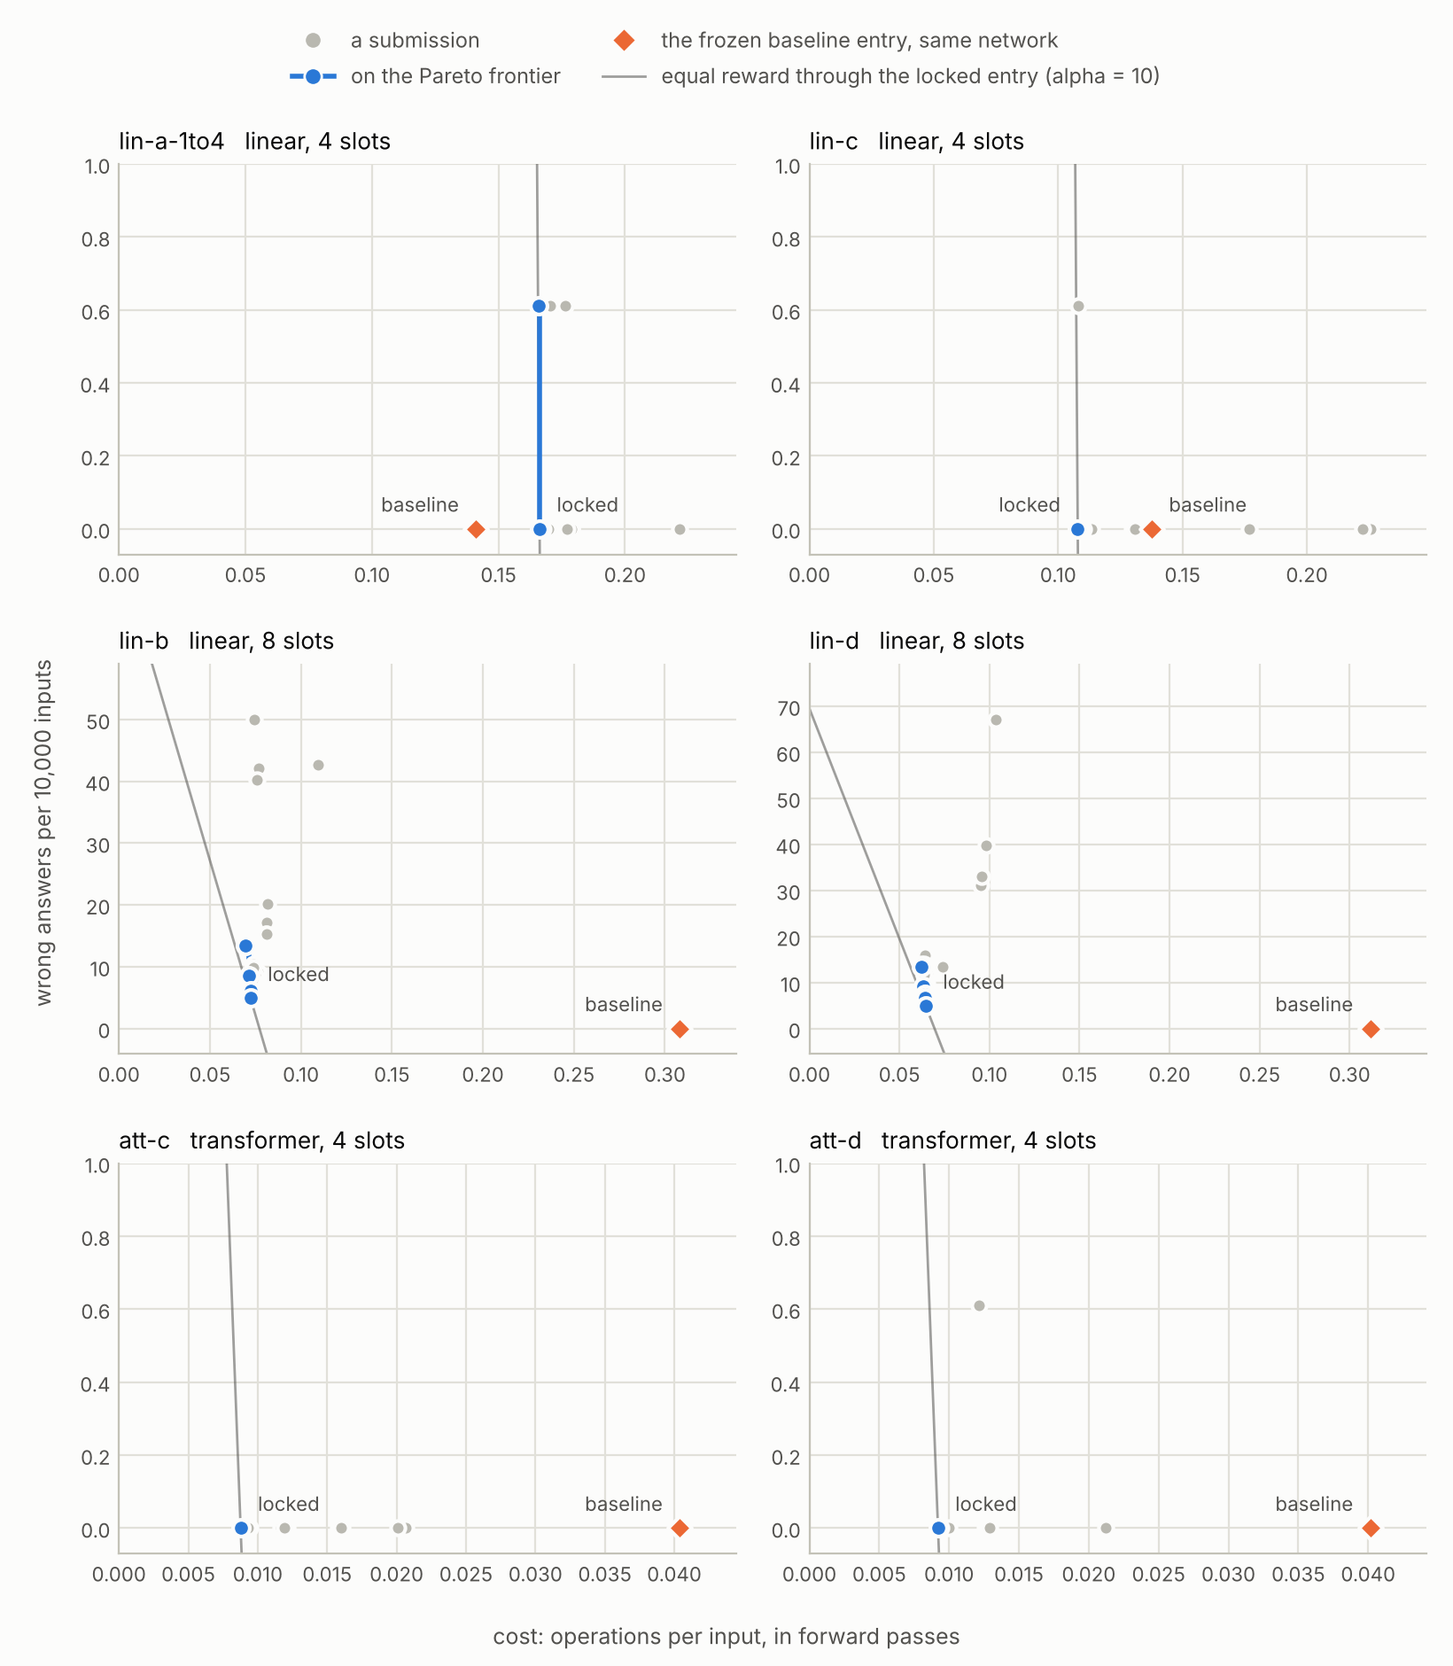
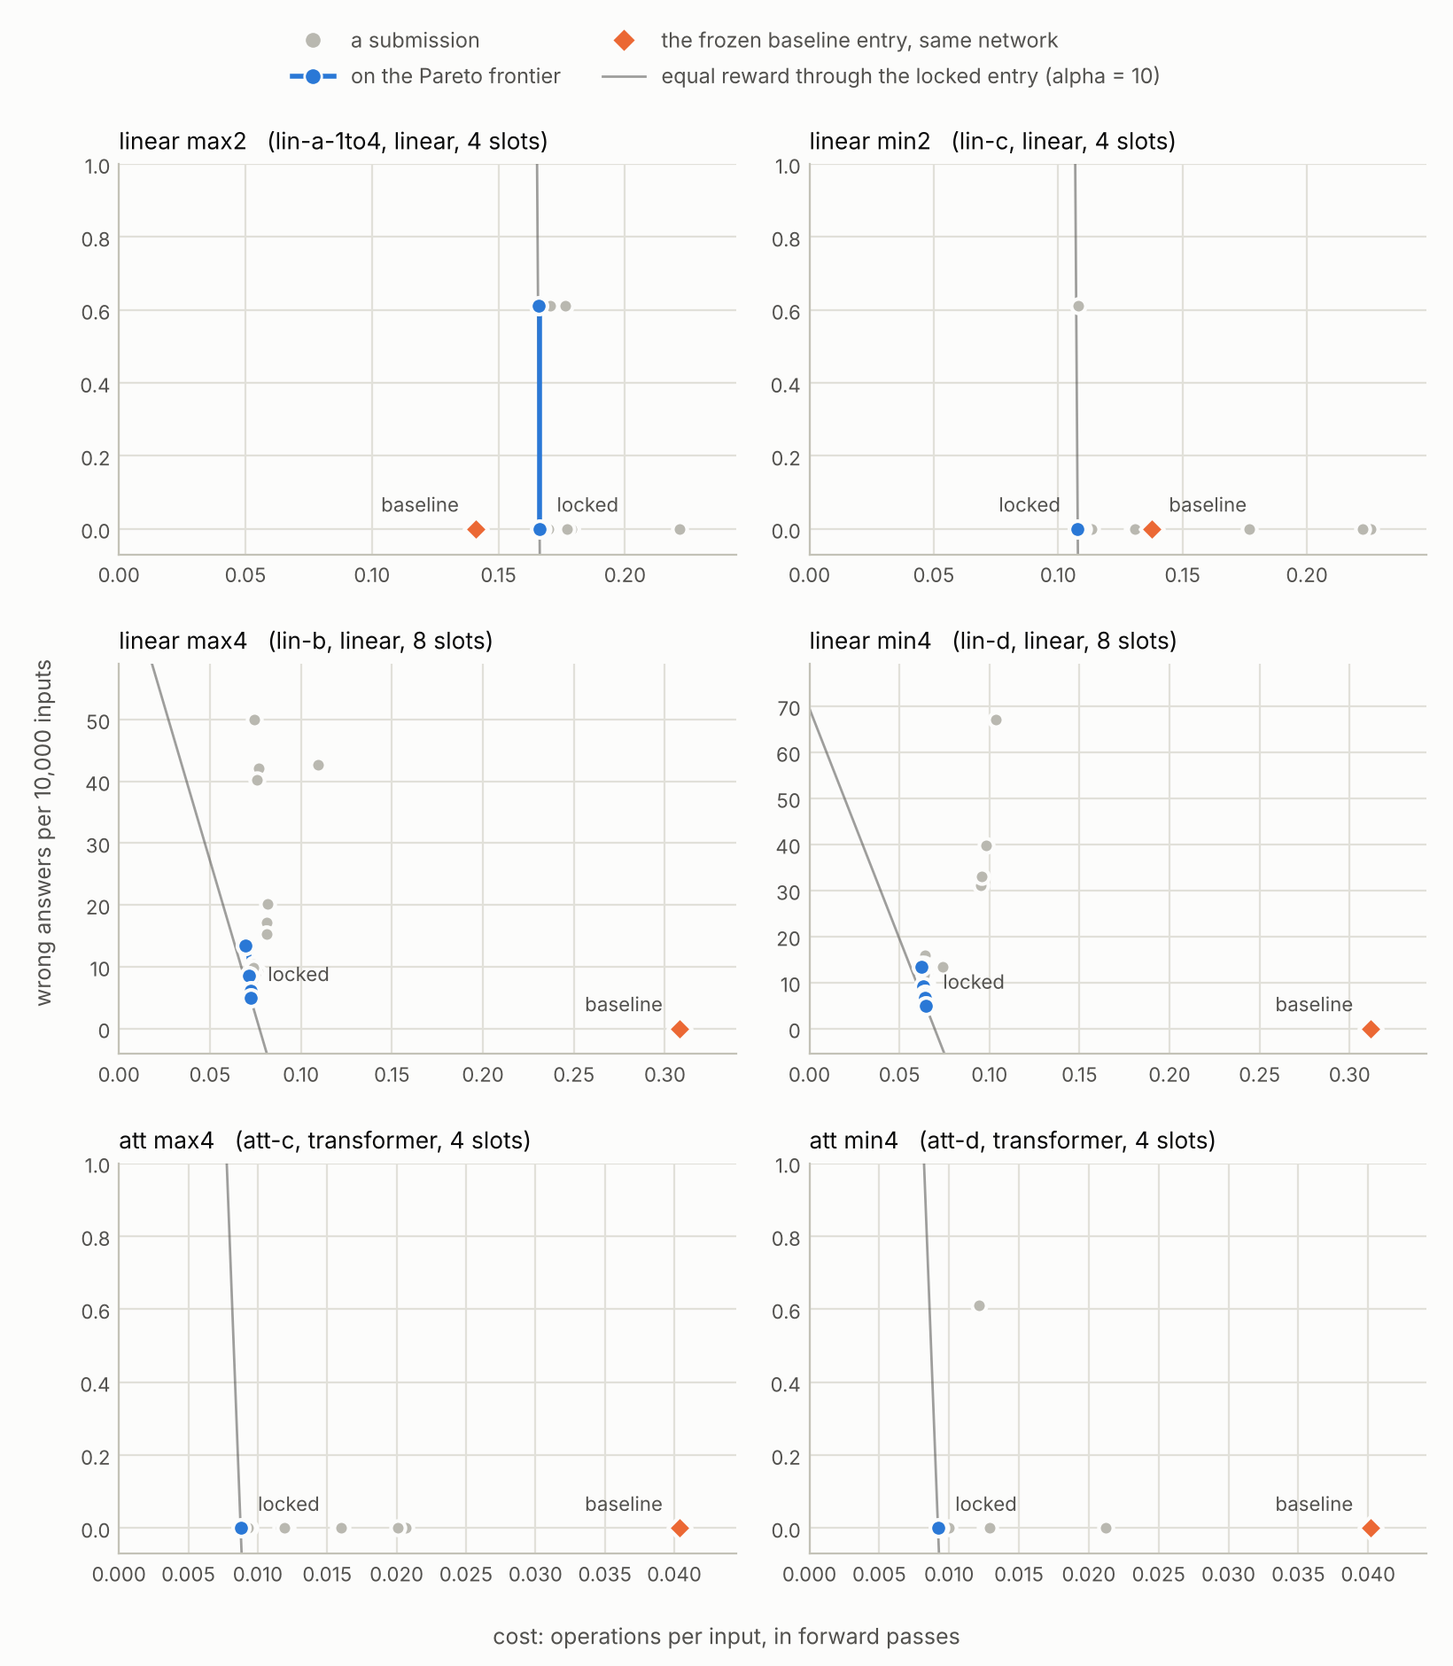
README: the models by names for people, linear max2 to att min4
The README calls the pilots' models by names that say what they do (linear max2, linear min2,
linear max4, linear min4, att max4, att min4), with their folder names in the models table; the
results, baseline and frontier sections and the layout use them. The frontier figure takes its panel
titles from the README's models table, so its script names no task. The rule in CLAUDE.md now says
the README names and describes the pilots' models for people; the agent never sees the names.

Claude-Session: https://claude.ai/code/session_0157n73R7ddwxFKEzWzgLafp

diff --git a/docs/figures/frontier.py b/docs/figures/frontier.py
@@ -34,6 +34,19 @@ SURFACE, GRID, AXIS, INK, INK2 = "#fcfcfb", "#e1e0d9", "#c3c2b7", "#0b0b0b", "#5
 OUT = Path(__file__).resolve().parent / "frontier.png"
 
 
+def names_from_readme() -> dict:
+    """{model folder: the name the README gives it}, read from the README's table of the pilots' models (the
+    README is the one place outside withheld/ that may say what a network was trained to do). A model the
+    table does not name keeps its folder's name."""
+    readme = Path(__file__).resolve().parents[2] / "README.md"
+    out = {}
+    for line in readme.read_text().splitlines() if readme.exists() else []:
+        cells = [c.strip() for c in line.strip().strip("|").split("|")]
+        if len(cells) > 2 and cells[1] in {name for _, name, _ in RUNS}:
+            out[cells[1]] = cells[0]
+    return out
+
+
 def load(folder: Path, run: str) -> tuple:
     """(the run's scored submissions, the locked one's name, the frozen baseline entry's receipt on the run's
     own network or None)."""
@@ -100,9 +113,10 @@ def main(argv=None) -> int:
     args = sys.argv[1:] if argv is None else argv
     folder = Path(args[0]).expanduser() if args else Path("~/mech-interp-level1-runs").expanduser()
     fig, axes = plt.subplots(3, 2, figsize=(8.2, 9.4), dpi=200, facecolor=SURFACE)
+    names = names_from_readme()
     for ax, (run, name, design) in zip(axes.flat, RUNS):
         subs, locked, base = load(folder, run)
-        panel(ax, subs, locked, base, f"{name}   {design}")
+        panel(ax, subs, locked, base, f"{names[name]}   ({name}, {design})" if name in names else f"{name}   {design}")
     handles = [Line2D([], [], marker="o", ls="", color=GREY, markeredgecolor=SURFACE, markersize=7, label="a submission"),
                Line2D([], [], marker="o", color=BLUE, markeredgecolor=SURFACE, markersize=7, lw=2, label="on the Pareto frontier"),
                Line2D([], [], marker="D", ls="", color=ORANGE, markeredgecolor=SURFACE, markersize=7,

diff --git a/tests/test_hygiene.py b/tests/test_hygiene.py
@@ -100,8 +100,8 @@ def test_nothing_names_the_networks_or_the_pipeline_to_the_agent(model, cfg):
 
 def test_the_task_is_said_in_one_place(model, cfg):
     """Outside the withheld folder, the tests and the README, no file of the repository says what the pilot's
-    network was trained to do: not the docs, not a comment, not a config. The README's table of the pilots'
-    models says it for people (CLAUDE.md); the README is never on the agent's side, which the hygiene check
+    network was trained to do: not the docs, not a comment, not a config. The README names and describes the
+    pilots' models for people (CLAUDE.md); the README is never on the agent's side, which the hygiene check
     of the agent's surface covers."""
     general = {s.lower() for s in cfg["hygiene"]}
     task_words = [s for s in model.hygiene() if s.lower() not in general]

diff --git a/README.md b/README.md
@@ -94,18 +94,19 @@ measured parts, so a finished run can be scored again under another reward
 
 ### The models and what we did
 
-Every pilot network reads a row of slots (4, or 8 for lin-b and lin-d), each holding one of 64
+Every pilot network reads a row of slots (4, or 8 for linear max4 and min4), each holding one of 64
 tokens or nothing, and outputs one of the 64 tokens. Each model has two networks, trained by the same
-recipe from two seeds.
+recipe from two seeds. The names below are ours, for reading the results; in the repository and for
+the agent the models are folders with names that say nothing (second column).
 
-| Model | Architecture | Trained to output | Trained on | Asked about |
-| --- | --- | --- | --- | --- |
-| lin-a-1to4 | linear | the largest token | exactly 2 tokens | 1 to 4 tokens |
-| lin-c | linear | the smallest token | exactly 2 tokens | 1 to 4 tokens |
-| lin-b | linear | the largest token | exactly 4 tokens | 1 to 8 tokens |
-| lin-d | linear | the smallest token | exactly 4 tokens | 1 to 8 tokens |
-| att-c | transformer | the largest token | exactly 4 tokens | 1 to 4 tokens |
-| att-d | transformer | the smallest token | exactly 4 tokens | 1 to 4 tokens |
+| Model | In the repository | Architecture | Trained to output | Trained on | Asked about |
+| --- | --- | --- | --- | --- | --- |
+| linear max2 | lin-a-1to4 | linear | the largest token | exactly 2 tokens | 1 to 4 tokens |
+| linear min2 | lin-c | linear | the smallest token | exactly 2 tokens | 1 to 4 tokens |
+| linear max4 | lin-b | linear | the largest token | exactly 4 tokens | 1 to 8 tokens |
+| linear min4 | lin-d | linear | the smallest token | exactly 4 tokens | 1 to 8 tokens |
+| att max4 | att-c | transformer | the largest token | exactly 4 tokens | 1 to 4 tokens |
+| att min4 | att-d | transformer | the smallest token | exactly 4 tokens | 1 to 4 tokens |
 
 - **Linear**: each token has an embedding column of 8 numbers (an empty slot's is zero). The columns
   of an input's tokens are added up and multiplied by a hidden 8 x 8 matrix and an unembedding to 64
@@ -114,16 +115,16 @@ recipe from two seeds.
   in how many tokens they were trained on (2 or 4).
 - **Transformer**: one layer with one attention head and nothing else (no MLP, no layer norm, no
   biases), width 32, with learned position embeddings; it is read at the last token given, attending
-  over the tokens given. att-c and att-d differ only in their task.
-- **Where they come from**: lin-a-1to4's networks and att-c are the proof pipeline's (the setting of
-  Gross et al.); lin-c and att-d were trained here by the same recipes, and lin-b and lin-d by the same
-  recipe for longer, until their accuracy stopped rising. Every one follows its task on 99.7% to
+  over the tokens given. att max4 and att min4 differ only in their task.
+- **Where they come from**: linear max2's networks and att max4's are the proof pipeline's (the
+  setting of Gross et al.); linear min2 and att min4 were trained here by the same recipes, and linear
+  max4 and min4 by the same recipe for longer, until their accuracy stopped rising. Every one follows its task on 99.7% to
   99.99% of its training inputs.
 
 **What we did.** Each network is asked about more inputs than it was trained on: every number of
 tokens from 1 up to its slots, each number equally likely (about 17 million inputs with 4 slots,
 2.8 x 10^14 with 8). Off its training inputs a network does something other than its task, and
-differently for each seed: att-c's first network gives the largest token on 17% of 3-token inputs,
+differently for each seed: att max4's first network gives the largest token on 17% of 3-token inputs,
 its second on 98%. The agent is told the data set in full, but never the task or the training
 inputs, so finding where a network's behaviour can be described cheaply is the work. It works on the
 first network for at most 5 rounds of at most 4 submissions (`claude-fable-5-1` at effort high,
@@ -141,14 +142,14 @@ a sixfold saving, 0.99 about a hundredfold.
 
 ### The runs
 
-| Run | Network | Inputs | F | Locked | Fresh sample | Second seed |
-| --- | --- | --- | ---: | ---: | ---: | ---: |
-| lin-a-1to4 | linear, width 8 | 1 to 4 tokens | 671 | 0.8314 | 0.8310 | 0.8298 |
-| lin-c | linear, width 8 | 1 to 4 tokens | 671 | 0.8898 | 0.8900 | 0.8893 |
-| lin-b | linear, width 8 | 1 to 8 tokens | 703 | 0.9180 | 0.9129 | 0.8027 |
-| lin-d | linear, width 8 | 1 to 8 tokens | 703 | 0.9257 | 0.9128 | 0.8301 |
-| att-c | transformer, 1 layer, 1 head, width 32 | 1 to 4 tokens | 12,987 | 0.9889 | 0.9887 | 0.9905 |
-| att-d | transformer, 1 layer, 1 head, width 32 | 1 to 4 tokens | 12,987 | 0.9884 | 0.9884 | 0.9871 |
+| Model | Asked about | F | Locked | Fresh sample | Second seed |
+| --- | --- | ---: | ---: | ---: | ---: |
+| linear max2 | 1 to 4 tokens | 671 | 0.8314 | 0.8310 | 0.8298 |
+| linear min2 | 1 to 4 tokens | 671 | 0.8898 | 0.8900 | 0.8893 |
+| linear max4 | 1 to 8 tokens | 703 | 0.9180 | 0.9129 | 0.8027 |
+| linear min4 | 1 to 8 tokens | 703 | 0.9257 | 0.9128 | 0.8301 |
+| att max4 | 1 to 4 tokens | 12,987 | 0.9889 | 0.9887 | 0.9905 |
+| att min4 | 1 to 4 tokens | 12,987 | 0.9884 | 0.9884 | 0.9871 |
 
 - **F**: the operations of one forward pass, by the price list.
 - **Locked**: the reward of the run's best submission on its own network, as scored when it was
@@ -165,23 +166,23 @@ of its model's other networks, so all three baselines are established:
 
 | Baseline run | Serves | Frozen entry | On its second network | On its other four networks |
 | --- | --- | --- | ---: | --- |
-| pilot-lin-e-exact | lin-a-1to4, lin-c | r5s3 (ts4) | 0.8388 | 0.838 to 0.842, exact on each |
-| pilot-lin-f-exact | lin-b, lin-d | r3s1 (tri_v3) | 0.6888 | 0.687, exact on each |
-| pilot-att-e-exact | att-c, att-d | r3s2 (v3g) | 0.9735 | 0.977 to 0.990, exact on each |
+| linear, 4 slots (pilot-lin-e-exact) | linear max2, linear min2 | r5s3 (ts4) | 0.8388 | 0.838 to 0.842, exact on each |
+| linear, 8 slots (pilot-lin-f-exact) | linear max4, linear min4 | r3s1 (tri_v3) | 0.6888 | 0.687, exact on each |
+| att, 4 slots (pilot-att-e-exact) | att max4, att min4 | r3s2 (v3g) | 0.9735 | 0.977 to 0.990, exact on each |
 
 Each run read against its baseline, every number on the run's own inputs: R0 is the locked entry on
 its fresh sample, R1 in the seed check, and B0 and B1 the frozen entry on the same inputs. The three
 parts add up to R0. In brackets, the range when each fidelity moves across its 95% interval, as the
 report gives it.
 
-| Run | R0 | Baseline B0 | Kept on the held-out network, R1 - B1 | Gap, (R0 - B0) - (R1 - B1) |
+| Model | R0 | Baseline B0 | Kept on the held-out network, R1 - B1 | Gap, (R0 - B0) - (R1 - B1) |
 | --- | ---: | ---: | --- | --- |
-| lin-a-1to4 | 0.8310 | 0.8565 | -0.026 (-0.028 to -0.023) | +0.001 (-0.005 to +0.005) |
-| lin-c | 0.8900 | 0.8601 | +0.029 (+0.027 to +0.031) | +0.001 (-0.004 to +0.006) |
-| lin-b | 0.9129 | 0.6894 | +0.113 (+0.110 to +0.144) | +0.111 (+0.077 to +0.122) |
-| lin-d | 0.9128 | 0.6861 | +0.139 (+0.136 to +0.168) | +0.088 (+0.056 to +0.103) |
-| att-c | 0.9887 | 0.9573 | +0.033 (+0.031 to +0.036) | -0.002 (-0.006 to +0.003) |
-| att-d | 0.9884 | 0.9575 | +0.030 (+0.028 to +0.032) | +0.001 (-0.004 to +0.006) |
+| linear max2 | 0.8310 | 0.8565 | -0.026 (-0.028 to -0.023) | +0.001 (-0.005 to +0.005) |
+| linear min2 | 0.8900 | 0.8601 | +0.029 (+0.027 to +0.031) | +0.001 (-0.004 to +0.006) |
+| linear max4 | 0.9129 | 0.6894 | +0.113 (+0.110 to +0.144) | +0.111 (+0.077 to +0.122) |
+| linear min4 | 0.9128 | 0.6861 | +0.139 (+0.136 to +0.168) | +0.088 (+0.056 to +0.103) |
+| att max4 | 0.9887 | 0.9573 | +0.033 (+0.031 to +0.036) | -0.002 (-0.006 to +0.003) |
+| att min4 | 0.9884 | 0.9575 | +0.030 (+0.028 to +0.032) | +0.001 (-0.004 to +0.006) |
 
 The kept part is the run's lead over the baseline on a network its agent never saw. The gap is the
 part of the lead that holds on the run's own network and not on the held-out one: whatever was
@@ -200,11 +201,11 @@ frontier with the numbers, and `docs/figures/frontier.py` draws this from the ru
 
 ![The Pareto frontier of each pilot: cost against wrong answers](docs/figures/frontier.png)
 
-- On att-c, att-d and lin-c one exact entry is the whole frontier: it is also the cheapest, so
+- On att max4, att min4 and linear min2 one exact entry is the whole frontier: it is also the cheapest, so
   alpha decides nothing there.
-- On lin-a-1to4 the baseline's entry lies left of the whole frontier: exact, and cheaper than
+- On linear max2 the baseline's entry lies left of the whole frontier: exact, and cheaper than
   anything the run submitted.
-- On lin-b and lin-d the frontier trades cost for a few wrong answers, and alpha = 10 picks the
+- On linear max4 and min4 the frontier trades cost for a few wrong answers, and alpha = 10 picks the
   locked entry on it; the baseline's entry is exact but more than four times as costly. There, two
   scorings of one entry differ about as much as different entries do.
 
@@ -213,22 +214,23 @@ frontier with the numbers, and `docs/figures/frontier.py` draws this from the ru
 - Every locked entry beats the network by a wide margin, and the runs on 4 slots keep it on the
   second seed: there they are within 0.002 of the fresh sample.
 - On the 4-slot linear design almost all of the score is generic. An agent that never saw a trained
-  network found an exact entry worth 0.857 on lin-a-1to4's own network, more than that run's 0.831:
+  network found an exact entry worth 0.857 on linear max2's own network, more than that run's 0.831:
   a search that bounds blocks of outputs and computes exact logits only where one can still win,
-  where the run used tables of pair sums. lin-c's run keeps +0.03 over it.
+  where the run used tables of pair sums. Linear min2's run keeps +0.03 over it.
 - On the transformers the generic part is 0.957, and the runs keep +0.03 over it on networks their
   agents never saw, with no gap.
 - On the 8-slot linear design the runs keep +0.11 and +0.14 over a weaker baseline (0.69; its agent
   found much less than the 4-slot one did), and lose 0.11 and 0.09 between their two networks.
   Their entries compute exact logits only for the outputs that can still win on long
   inputs, and which outputs those are was read off the first network.
-- A frozen entry can score more on a trained network than on its own model's (lin-e's: 0.857 on
-  lin-a-1to4, 0.839 on its second network): it is exact for any weights, but what it costs depends
+- A frozen entry can score more on a trained network than on its own model's (the 4-slot linear
+  baseline's: 0.857 on linear max2, 0.839 on its own second network): it is exact for any weights, but what it costs depends
   on them.
 - The agents resubmit the same entry to draw a luckier sample, so the fresh sample is the number to
   compare.
 
-Not run yet: the pilots on pairs (lin-a, att-a, att-b) and on the recurrent networks.
+Not run yet: linear max2, att max2 and att min2 asked only about pairs of tokens, their training
+inputs (lin-a, att-a, att-b), and the recurrent networks.
 
 ## More implementation details
 
@@ -274,7 +276,7 @@ both. The network itself is written in the same language (`models/<name>/model.p
 pass costs it F operations, the same on every input.
 
 The verifier (`level1/verifier.py`) picks n inputs: every input of the data set when it can be
-listed (lin-a's 4,096 pairs), otherwise a sample drawn from D (16,384 inputs in the pilots), afresh
+listed (linear max2 asked only about pairs: 4,096 inputs), otherwise a sample drawn from D (16,384 inputs in the pilots), afresh
 for each of the agent's submissions, from a seed nobody chose. It runs the network on them for its
 outputs M(x), then the entry, with `lang.measure`:
 
@@ -351,7 +353,7 @@ Nothing the agent says is taken on trust: what it did is recorded, fenced in and
 
 In the nine runs so far the guard refused nothing, the probe got nothing out of the seatbelt
 sandbox, and no claimed fidelity was above the measured one by more than 0.0013. Two early pilots
-ran in process mode, lin-b with the guard and lin-a-1to4 before the guard existed; lin-a-1to4's 52
+ran in process mode, linear max4 with the guard and linear max2 before the guard existed; linear max2's 52
 programs were read by hand. The notes are the agent's own words: the measurements check the entries
 built on them, not the words.
 
@@ -362,8 +364,8 @@ repeats the same products for the same token in the same slot, and tables comput
 weights remove that on any network of the design. The baseline measures that part, so that a run can
 be read against it (`level1/baseline.py`, `docs/DESIGN.md` section 10).
 
-- **Baseline models.** `lin-e`, `lin-f` and `att-e` have the design, sizes and data set of lin-c,
-  lin-d and att-c (and so also serve lin-a-1to4, lin-b and att-d), and `rnn-d`, `rnn-e` and `rnn-f`
+- **Baseline models.** `lin-e`, `lin-f` and `att-e` have the design, sizes and data set of linear
+  min2, linear min4 and att max4 (and so also serve linear max2, linear max4 and att min4), and `rnn-d`, `rnn-e` and `rnn-f`
   those of rnn-a, rnn-b and rnn-c. Their networks have nothing in them for an agent to find; what
   they are is in `withheld/<name>/`. The first network is for the rounds, the second for the seed
   check, the others for freezing.
@@ -532,12 +534,12 @@ Everything is written as it happens, so a run can stop and resume, and can be re
       run_config.py    run configs: defaults, then what a config extends, then the config
       sandbox.py, runner.py, harness.py    where the agent's code runs
       util.py          small helpers
-    models/lin-a/           a linear network on pairs of tokens, two seeds
-    models/lin-a-1to4/      the same two networks, asked about inputs of 1 to 4 tokens
-    models/lin-b/           a network of the same design trained afresh, asked about inputs of 1 to 8 tokens
-    models/lin-c/, lin-d/   the designs of lin-a and lin-b trained afresh on another task
-    models/att-a/ .. att-d/   one-layer, one-head transformers: two with 2 slots, two with 4
-    models/lin-e/, lin-f/, att-e/   baseline models of the shapes of lin-c, lin-d and att-c
+    models/lin-a/           linear max2, asked only about pairs of tokens
+    models/lin-a-1to4/      linear max2: the same two networks, asked about inputs of 1 to 4 tokens
+    models/lin-b/           linear max4, asked about inputs of 1 to 8 tokens
+    models/lin-c/, lin-d/   linear min2 and linear min4
+    models/att-a/ .. att-d/   att max2, att min2 (2 slots), att max4, att min4 (4 slots)
+    models/lin-e/, lin-f/, att-e/   baseline models of the shapes of linear min2, linear min4 and att max4
     models/rnn-a/ .. rnn-c/   one-layer ReLU recurrent networks on 2, 3 and 10 real numbers, five seeds each
     models/rnn-d/ .. rnn-f/   their baseline models
     withheld/<model>/       what it was trained to do, and reference entries (never shown to the agent)

diff --git a/CLAUDE.md b/CLAUDE.md
@@ -6,8 +6,9 @@ that predicts a small network's outputs in fewer operations, and a verifier meas
 - The agent is never told what the model does. This holds for every route: the prompt, the tools'
   descriptions, the files placed in its sandbox, names (model folders, network ids, weights), the
   entry guide, examples, and what its code can import. What a network was trained to do is said
-  in `withheld/`, in the tests and in the README's table of the pilots' models (the README is
-  never on the agent's side), and nowhere else in the repository. The agent is told
+  in `withheld/`, in the tests and in the README, which names and describes the pilots' models
+  for people and is never on the agent's side, and nowhere else in the repository; the README's
+  frontier figure takes those names from it. The agent is told
   the data set in full (`data_set.says` in the model's config); where the data set is wider than
   the training, which inputs the network was trained on is withheld like the task.
   `level1/hygiene.py` checks the agent's side; a new route to the agent is added to
